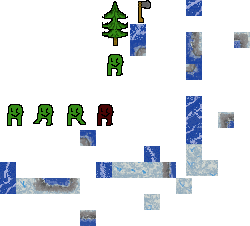
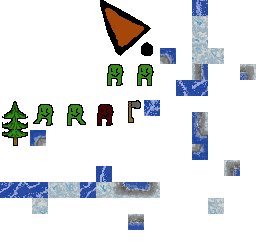
Re-enabled snow and added a custom cursor which really really really sucks

diff --git a/src/main.ts b/src/main.ts
@@ -5,14 +5,13 @@ import { Tilemap, HitBox} from "./tilemapParser.ts"
 import { Player } from "./player.ts"
 import { Keyboard } from "./keyboardHandler.ts"
 import { StatsHandler } from "./statsHandler.ts"
-import { Stats } from "pixi-stats"
 
 
 document.querySelector<HTMLDivElement>('#app')!.outerHTML = "<div id='statspanel'></div>";
 
 PIXI.TextureStyle.defaultOptions.scaleMode = "nearest";
 
-const scale_factor = 3;
+const scale_factor = 4;
 const tile_unscaled_size = 16;
 const map_size = 420;
 
@@ -23,6 +22,10 @@ kbd.addClickHandler("h", () => {hitboxes_enabled = !hitboxes_enabled});
 
 const app = new PIXI.Application();
 await app.init({width: tile_unscaled_size*map_size, height: tile_unscaled_size*map_size, antialias: false, roundPixels: true, backgroundColor: "blue"});
+
+const defaultIcon = "url('assets/cursor.png'),auto"
+
+app.renderer.events.cursorStyles.default = defaultIcon
 
 const stats = new StatsHandler(app.renderer);
 kbd.addClickHandler("p", () => {stats.toggle()});
@@ -69,7 +72,7 @@ app.stage.addChild(snow);
 const hbs = new PIXI.Graphics();
 world.addChild(hbs);
 
-//app.ticker.add(() => snow.updateSnow());
+app.ticker.add(() => snow.updateSnow());
 app.ticker.add(() => kbd.pressedKeys.forEach(handleKey));
 app.ticker.add(() => {if (!kbd.isWasdPressed()) {player.gotoAndStop(0); player.isMoving = false}});
 app.ticker.add(() => {if (player.isMoving) {handleVisualChunks()}});
